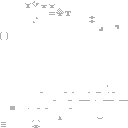
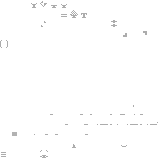
Some cleanup including text padding

diff --git a/src/ui.rs b/src/ui.rs
@@ -1,25 +1,11 @@
 use bevy::prelude::*;
 
-use crate::utils::UnloadOnExit;
-
 pub struct UiPlugin;
 
 impl Plugin for UiPlugin {
     fn build(&self, app: &mut App) {
-        app.add_startup_system_to_stage(StartupStage::PreStartup, load_graphics)
-            .add_startup_system(test_text);
+        app.add_startup_system_to_stage(StartupStage::PreStartup, load_graphics);
     }
-}
-
-fn test_text(mut commands: Commands, texture: Res<AsciiSheet>) {
-    let id = write_text(
-        &mut commands,
-        &texture,
-        Vec2::ZERO.extend(50.0),
-        Color::WHITE,
-        "test text\nABC",
-    );
-    commands.entity(id).insert(UnloadOnExit);
 }
 
 const LETTER_TILE_WIDTH: f32 = 8.0;
@@ -86,11 +72,13 @@ fn load_graphics(
     mut texture_atlases: ResMut<Assets<TextureAtlas>>,
 ) {
     let image = assets.load("Ascii.png");
-    let atlas = TextureAtlas::from_grid(
+    let atlas = TextureAtlas::from_grid_with_padding(
         image,
         Vec2::new(LETTER_TILE_WIDTH, LETTER_TILE_WIDTH),
         16,
         16,
+        Vec2::splat(2.0),
+        Vec2::ZERO,
     );
     let atlas_handle = texture_atlases.add(atlas);
     commands.insert_resource(AsciiSheet(atlas_handle));

diff --git a/src/battle.rs b/src/battle.rs
@@ -237,7 +237,7 @@ fn setup_level1(commands: &mut Commands, asset_server: &Res<AssetServer>) {
         10.0,
     ));
 
-    let war_machine = new_war_machine(commands, &asset_server, transform);
+    let war_machine = new_war_machine(commands, asset_server, transform);
     commands
         .entity(war_machine)
         .insert(Speed(6.0))
@@ -251,4 +251,5 @@ fn setup_level1(commands: &mut Commands, asset_server: &Res<AssetServer>) {
         .insert(PursuitType::ChasingClosest);
 }
 
+#[allow(unused_variables)]
 fn setup_level2(commands: &mut Commands, asset_server: &Res<AssetServer>) {}
